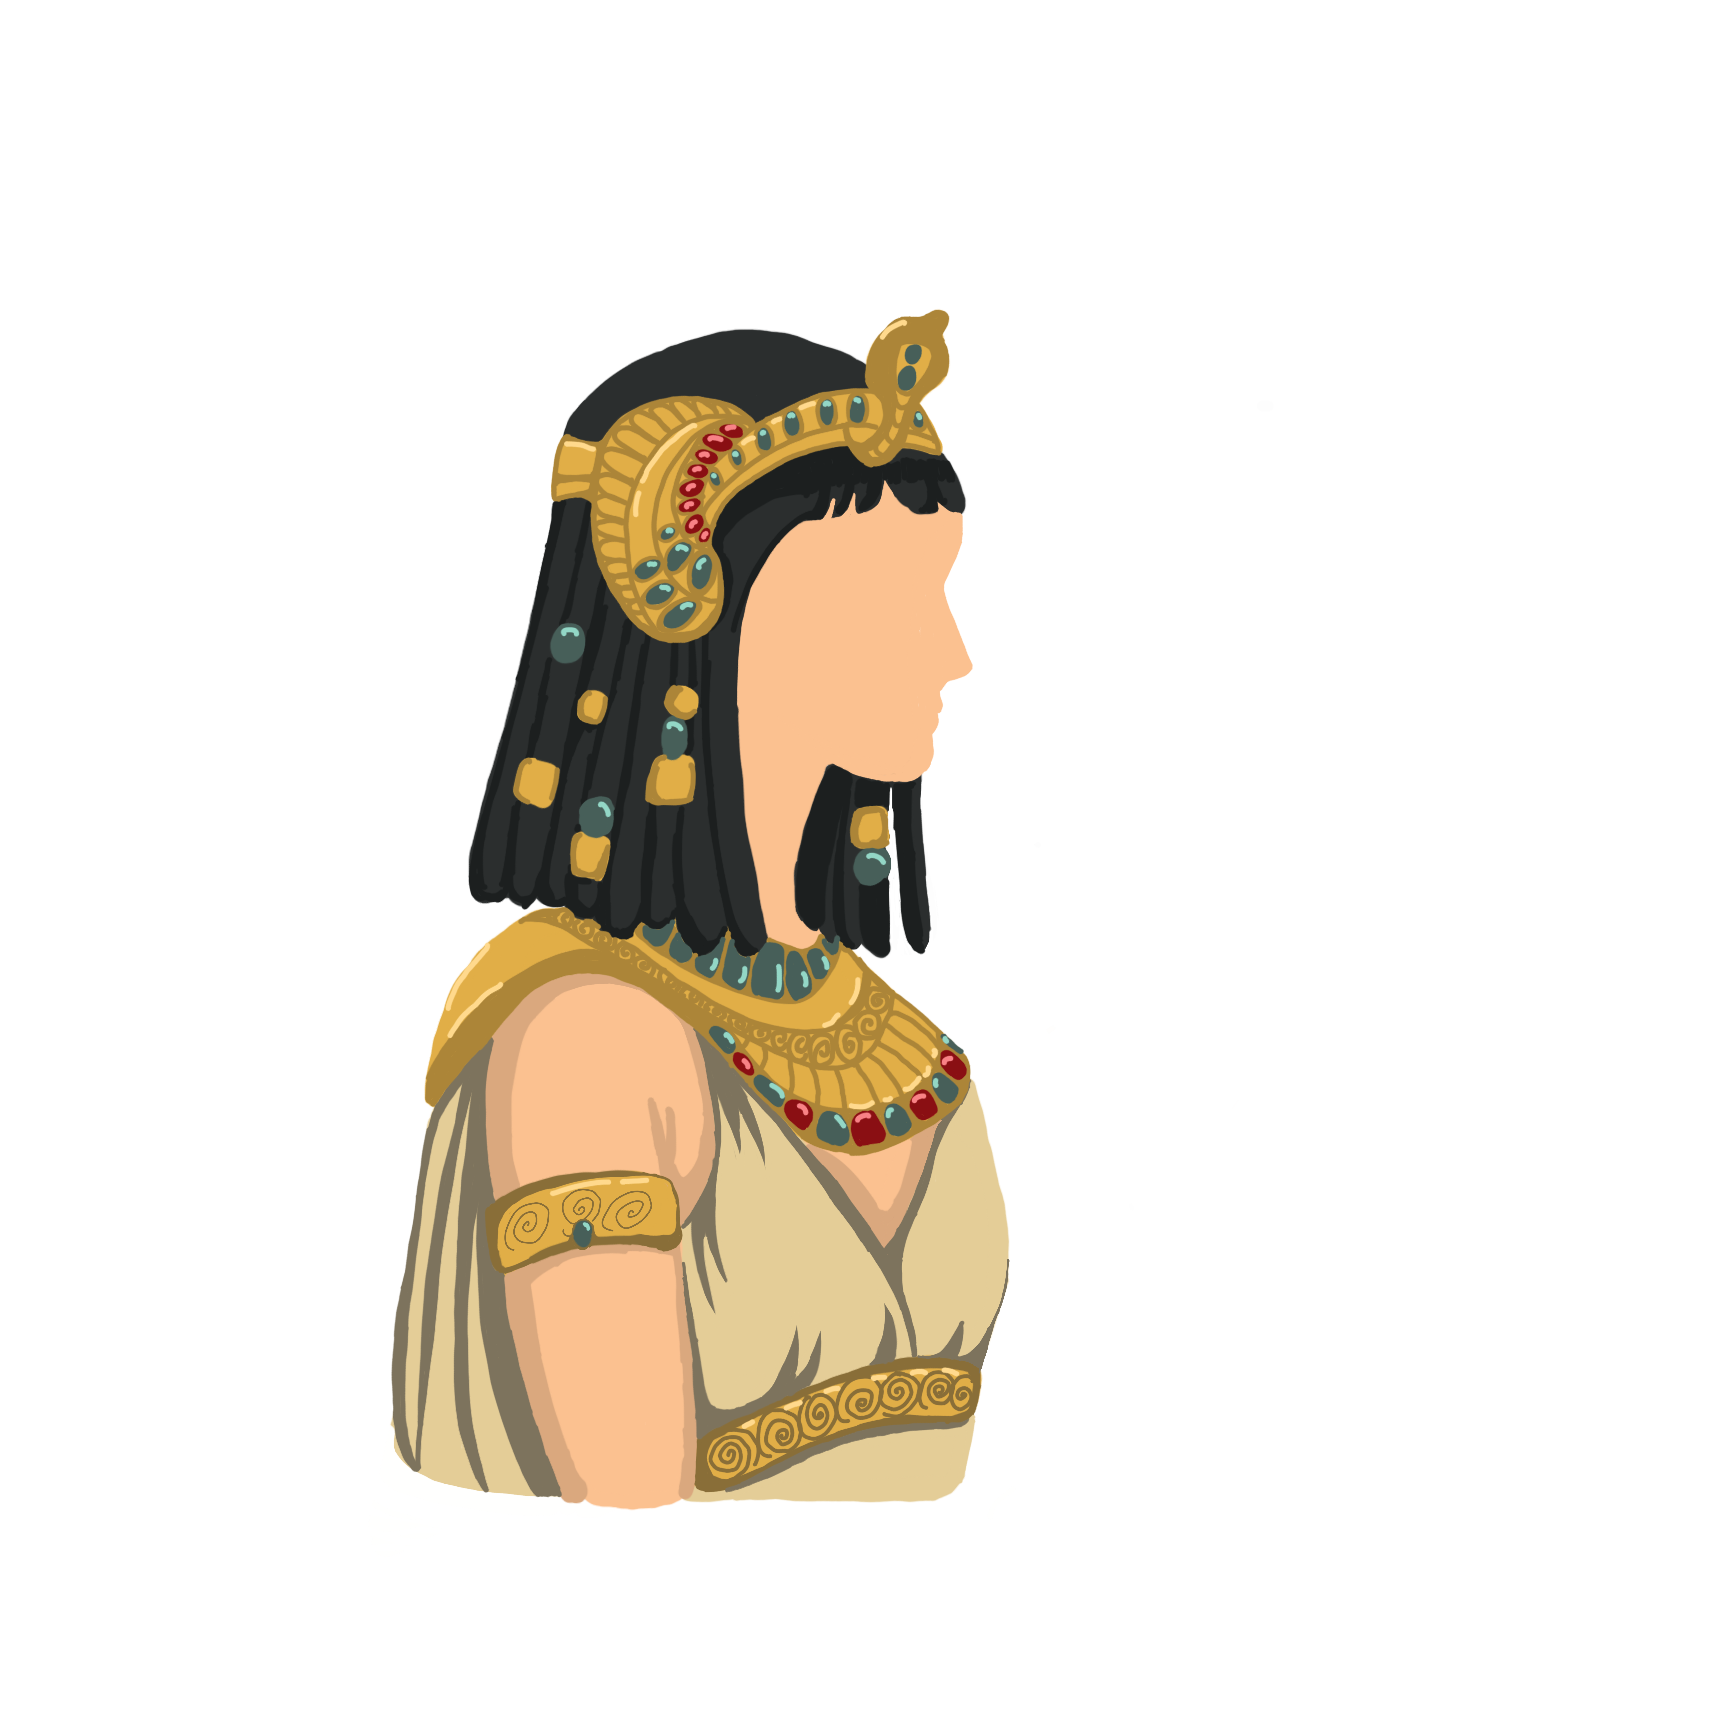
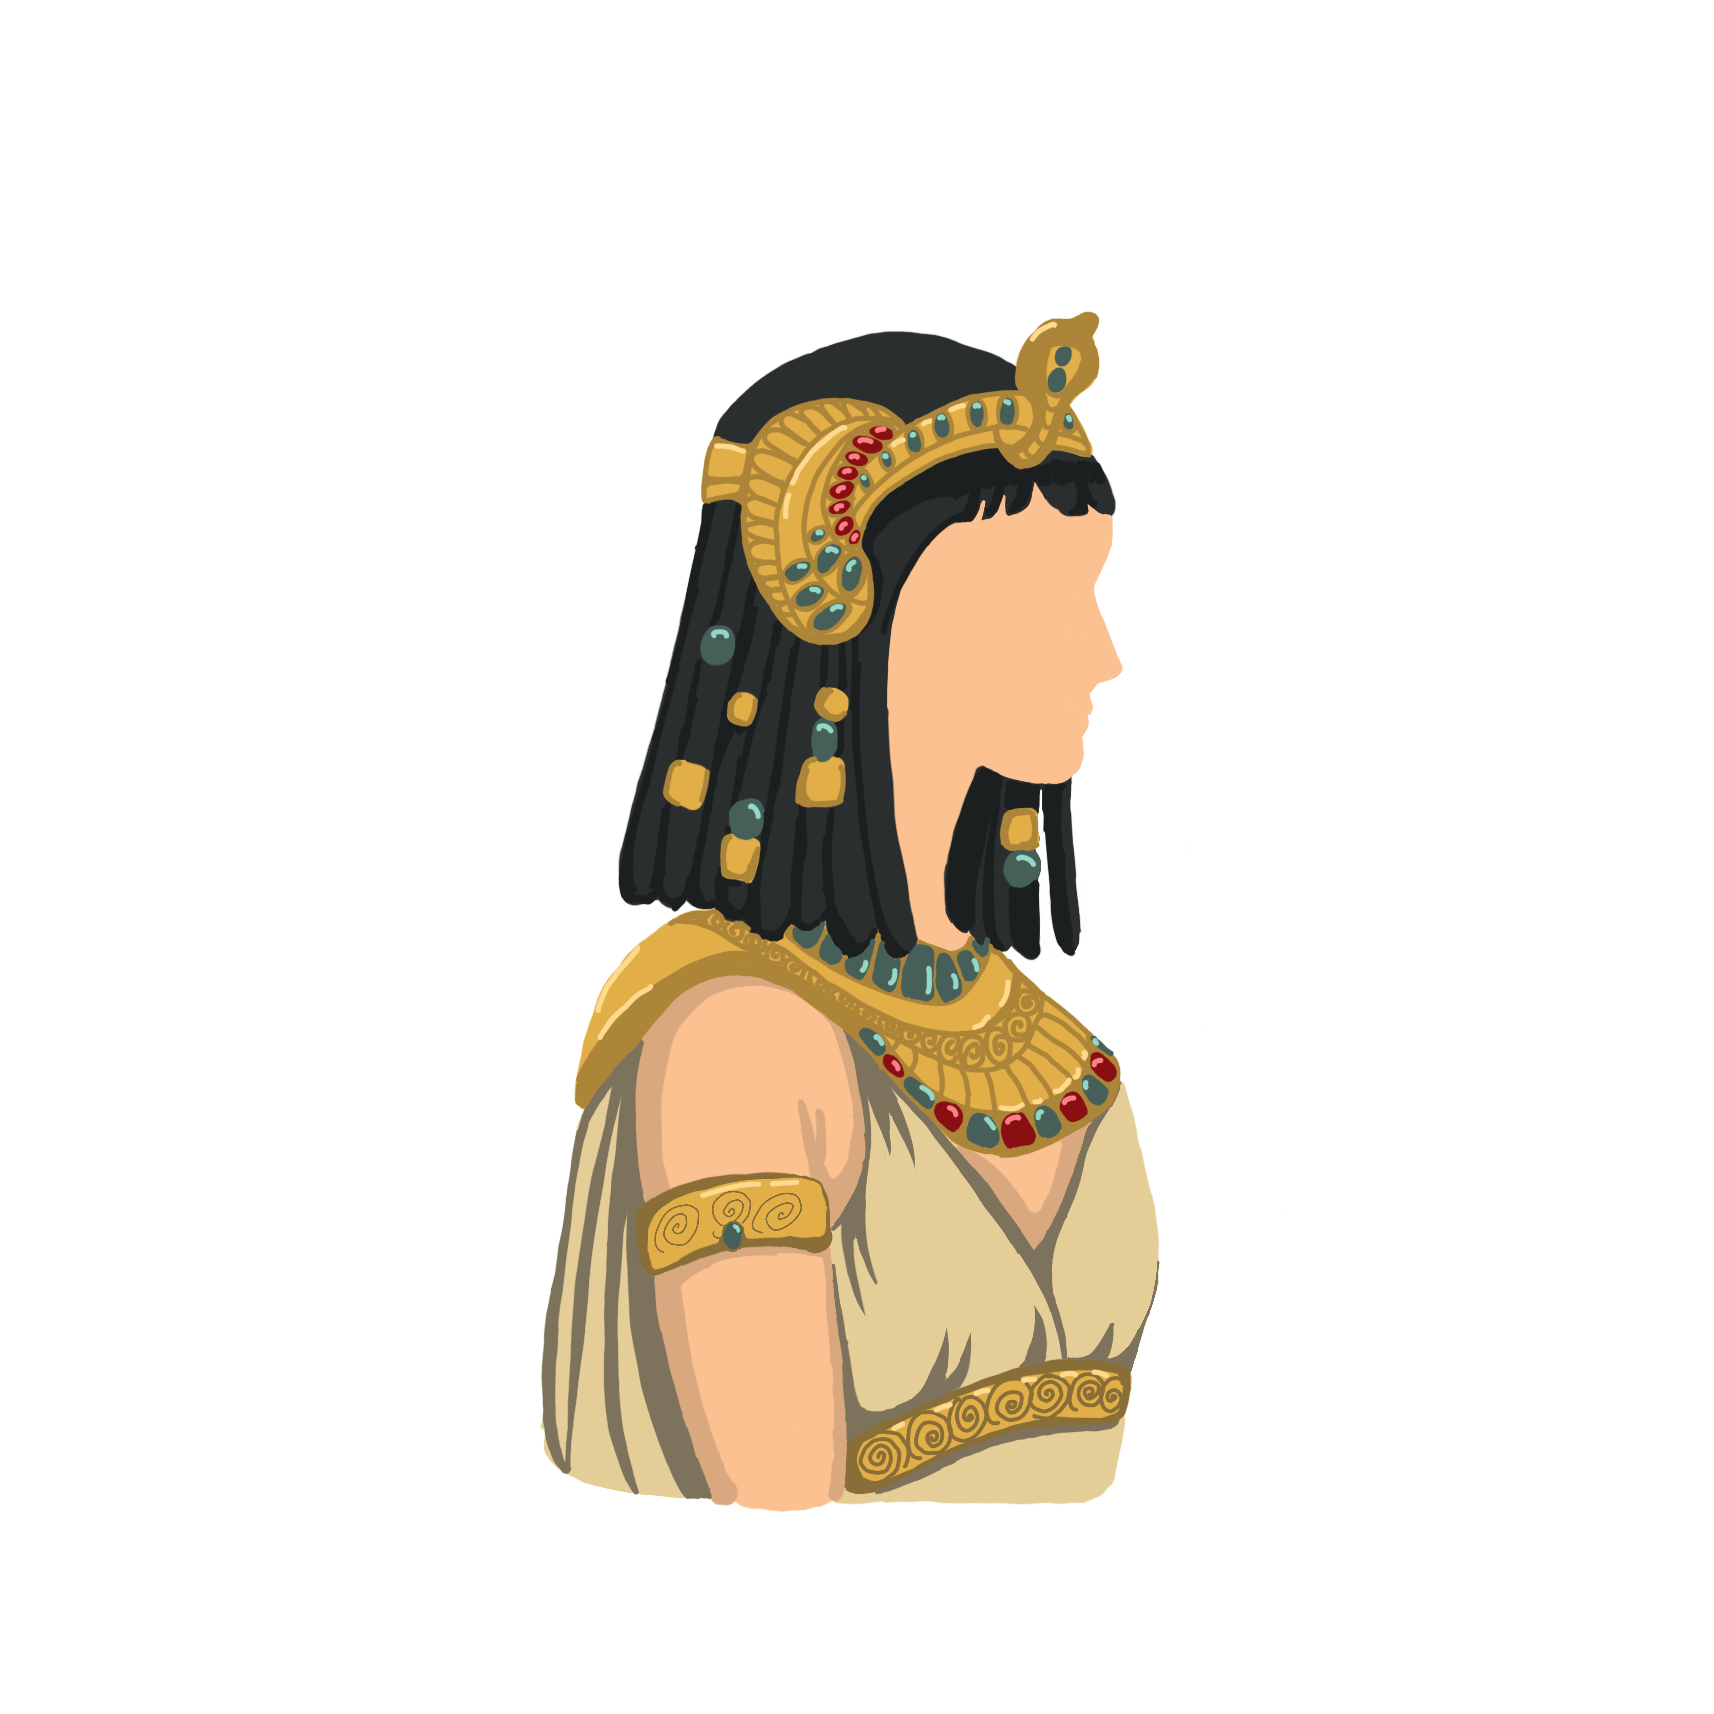
added the rest of the pictures and put them over buttons, also centered all png's

Changed region(s): [[0.2165, 0.1855, 0.6803, 0.8967]]

diff --git a/frontend/src/App.jsx b/frontend/src/App.jsx
@@ -80,12 +80,18 @@ function App() {
       <h2>Historic chatbot</h2>
       <h3>Chose the historic figure you want to talk</h3>
       <div className="button-row">
-        <div className="napoleon_button">
+        <div className="img_buttons">
           <img src="/images/napoleon_art.png" alt="napoleon.png" />
           <button onClick={() => changeFigure("napoleon")}>Napoleon</button>
         </div>
-        <button onClick={() => changeFigure("cleopatra")}>Cleopatra</button>
-        <button onClick={() => changeFigure("caesar")}>Caesar</button>
+        <div className="img_buttons">
+          <img src="/images/cleopatra_art.png" alt="cleopatra.png" />
+          <button onClick={() => changeFigure("cleopatra")}>Cleopatra</button>
+        </div>
+        <div className="img_buttons">
+          <img src="/images/ceasar_art.png" alt="ceasar.png"/>
+          <button onClick={() => changeFigure("caesar")}>Caesar</button>
+        </div>
       </div>
 
     </div>

diff --git a/frontend/src/index.css b/frontend/src/index.css
@@ -28,6 +28,7 @@ body {
   display: flex;
   gap: 10px;
   margin-bottom: 15px;
+  align-items: center;
 }
 
 button {
@@ -55,4 +56,10 @@ button {
 img{
   width: 150px;
   height: 150px;
+}
+.img_buttons{
+  display: flex;
+  flex-direction: column;
+  align-items: center;
+  gap: 0;
 }
